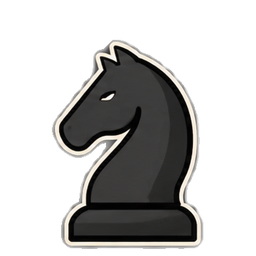
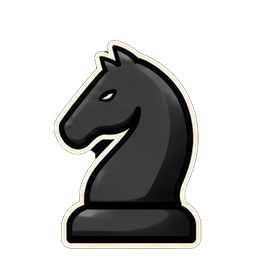
New piece set from Dede's second image (light rim on both colors)
Claude-Session: https://claude.ai/code/session_01GrAMtJTngoRoo4wWg1kne8

Changed region(s): [[0.1875, 0.1562, 0.8125, 1.0], [0.375, 0.3438, 0.4688, 0.4062], [0.5, 0.4375, 0.5312, 0.4688]]

diff --git a/chess-lab/pieces.css b/chess-lab/pieces.css
@@ -1,16 +1,16 @@
-/* Piece set from Dede's image (cream and black, bold outlines), cut into one PNG per piece in pieces/. Used by every board on the site. */
-.cg-wrap piece.king.white { background-image: url("pieces/wk.png?v=3"); }
-.cg-wrap piece.queen.white { background-image: url("pieces/wq.png?v=2"); }
-.cg-wrap piece.rook.white { background-image: url("pieces/wr.png?v=2"); }
-.cg-wrap piece.bishop.white { background-image: url("pieces/wb.png?v=2"); }
-.cg-wrap piece.knight.white { background-image: url("pieces/wn.png?v=2"); }
-.cg-wrap piece.pawn.white { background-image: url("pieces/wp.png?v=2"); }
-.cg-wrap piece.king.black { background-image: url("pieces/bk.png?v=3"); }
-.cg-wrap piece.queen.black { background-image: url("pieces/bq.png?v=2"); }
-.cg-wrap piece.rook.black { background-image: url("pieces/br.png?v=2"); }
-.cg-wrap piece.bishop.black { background-image: url("pieces/bb.png?v=2"); }
-.cg-wrap piece.knight.black { background-image: url("pieces/bn.png?v=2"); }
-.cg-wrap piece.pawn.black { background-image: url("pieces/bp.png?v=2"); }
+/* Piece set from Dede's image (cream and black with a light rim), cut into one PNG per piece in pieces/. Used by every board on the site. */
+.cg-wrap piece.king.white { background-image: url("pieces/wk.png?v=5"); }
+.cg-wrap piece.queen.white { background-image: url("pieces/wq.png?v=5"); }
+.cg-wrap piece.rook.white { background-image: url("pieces/wr.png?v=5"); }
+.cg-wrap piece.bishop.white { background-image: url("pieces/wb.png?v=5"); }
+.cg-wrap piece.knight.white { background-image: url("pieces/wn.png?v=5"); }
+.cg-wrap piece.pawn.white { background-image: url("pieces/wp.png?v=5"); }
+.cg-wrap piece.king.black { background-image: url("pieces/bk.png?v=5"); }
+.cg-wrap piece.queen.black { background-image: url("pieces/bq.png?v=5"); }
+.cg-wrap piece.rook.black { background-image: url("pieces/br.png?v=5"); }
+.cg-wrap piece.bishop.black { background-image: url("pieces/bb.png?v=5"); }
+.cg-wrap piece.knight.black { background-image: url("pieces/bn.png?v=5"); }
+.cg-wrap piece.pawn.black { background-image: url("pieces/bp.png?v=5"); }
 
 /* Pieces drawn 25% bigger than before (115% of the square instead of 92%), standing on the square's bottom edge.
    A background can't spill outside its element, so the image is drawn on ::before, which can: tall pieces

diff --git a/chess.html b/chess.html
@@ -9,7 +9,7 @@
 <link rel="stylesheet" href="https://fonts.googleapis.com/css2?family=Bricolage+Grotesque:wght@500;700&family=IBM+Plex+Sans:wght@400;500;600&family=IBM+Plex+Mono:wght@500&display=swap">
 <script src="https://cdnjs.cloudflare.com/ajax/libs/chess.js/0.10.3/chess.min.js"></script>
 <link rel="stylesheet" href="chess-lab/vendor/chessground.base.css">
-<link rel="stylesheet" href="chess-lab/pieces.css?v=4">
+<link rel="stylesheet" href="chess-lab/pieces.css?v=5">
 <script src="chess-lab/vendor/chessground.iife.js"></script>
 <style>
 /* Layout: one narrow column. Home = theme checklist for today; Drill = board + controls. */
@@ -1250,7 +1250,7 @@ function finishedPuzzle(theme, id){
 let theme, game, sol, step, color, mistakes, helped, finished, selected=null, lastMove=null, cur=null, queue=null, hintSq=null;
 const GLYPH = {k:"♚",q:"♛",r:"♜",b:"♝",n:"♞",p:"♟"};
 // piece set: chess-lab/pieces/*.png (same files as chess-lab/pieces.css)
-const PIECES = Object.fromEntries(['w','b'].flatMap(c => [...'kqrbnp'].map(p => [c+p, `chess-lab/pieces/${c}${p}.png?v=${p==="k"?3:2}`])));
+const PIECES = Object.fromEntries(['w','b'].flatMap(c => [...'kqrbnp'].map(p => [c+p, `chess-lab/pieces/${c}${p}.png?v=5`])));
 
 let returnView = "home";   // where "back" goes after a puzzle set
 function show(view){

diff --git a/index.html b/index.html
@@ -78,7 +78,7 @@ h2{font-family:var(--display);font-size:28px;margin:0;line-height:1.1}
     </a>
 
     <a class="door chess" href="chess.html">
-      <div class="art" aria-hidden="true"><img src="chess-lab/pieces/wn.png" alt=""></div>
+      <div class="art" aria-hidden="true"><img src="chess-lab/pieces/wn.png?v=5" alt=""></div>
       <div><h2>Chess</h2><p>Daily Lichess puzzles by theme, with failed-puzzle redos.</p></div>
       <div class="stat" id="chessStat"></div>
       <span class="go">Start puzzles →</span>

diff --git a/chess-lab/index.html b/chess-lab/index.html
@@ -7,7 +7,7 @@
   <title>Chess Lab · Spar &amp; Review</title>
   <link rel="icon" href="data:,">
   <link rel="stylesheet" href="vendor/chessground.base.css">
-  <link rel="stylesheet" href="pieces.css?v=4">
+  <link rel="stylesheet" href="pieces.css?v=5">
   <link rel="stylesheet" href="app.css?v=nav2">
 </head>
 <body>
